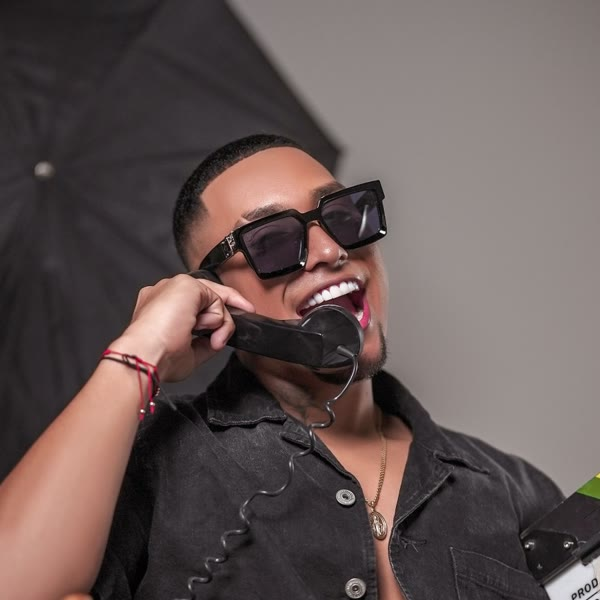
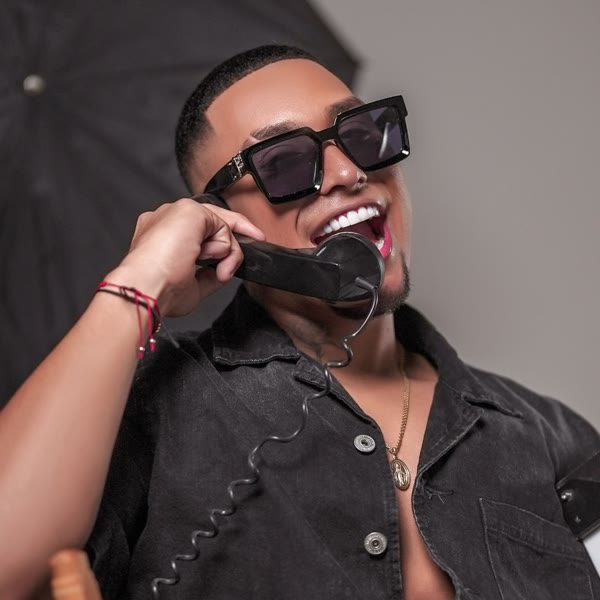
Ecualizador en reproductor, foto de reservas, tarjetas compactas en celular

diff --git a/index.html b/index.html
@@ -150,7 +150,7 @@ section{padding:110px 0}
 @media(max-width:560px){.fly{flex-basis:62vw}.ev.hasf{grid-template-columns:54px 64px 1fr}.ev.hasf .eva{grid-column:1/-1;justify-content:stretch}.ev.hasf .eva .btn{flex:1;justify-content:center}}
 /* entrada */
 .gate{position:fixed;inset:0;z-index:200;display:flex;flex-direction:column;align-items:center;justify-content:center;text-align:center;padding:24px;background:radial-gradient(ellipse at center,rgba(60,0,0,.85),rgba(0,0,0,.97) 70%),url(img/hero.jpg) center/cover;transition:opacity .6s}
-@media(max-width:700px){.book>.rv{position:relative}.bkph{position:absolute;top:30px;right:0;margin:0!important}.bkph img{width:108px!important;height:108px!important}.book .title{padding-right:118px}}
+@media(max-width:700px){.book>.rv{position:relative}.bkph{position:absolute;top:30px;right:0;margin:0!important}.bkph img{width:108px!important;height:108px!important}.book .title{padding-right:118px;min-height:116px}}
 .gate.out{opacity:0;pointer-events:none}
 .gate h2{font:900 clamp(44px,10vw,110px) 'Poppins';text-transform:uppercase;line-height:.9;margin:14px 0 10px}
 .gate p{color:#ddd;max-width:420px;line-height:1.6}
@@ -222,6 +222,13 @@ footer .wrap{display:flex;justify-content:space-between;flex-wrap:wrap;gap:12px}
 .vid .yt-fb{position:absolute;inset:0;z-index:2;display:flex;flex-direction:column;align-items:center;justify-content:flex-end;padding:18px;gap:10px;background:linear-gradient(0deg,rgba(0,0,0,.85),transparent 70%);font:600 13px 'Poppins';text-align:center}
 .vid.blk::after{display:none}
 @media(max-width:560px){.snd{padding:8px 12px;font-size:11px}.player .t{display:none}}
+.eq{display:inline-flex;align-items:flex-end;gap:2px;height:14px;margin-right:8px;vertical-align:-1px}
+.eq i{width:3px;height:3px;background:var(--mg);border-radius:1px}
+.player.on .eq i{animation:eq .9s ease-in-out infinite alternate}
+.eq i:nth-child(2){animation-delay:-.3s!important}.eq i:nth-child(3){animation-delay:-.6s!important}.eq i:nth-child(4){animation-delay:-.15s!important}
+@keyframes eq{0%{height:3px}50%{height:14px}100%{height:6px}}
+.player .lv{color:var(--mg);font-weight:700;margin-right:4px;display:none}.player.on .lv{display:inline}
+@media(max-width:560px){.player{gap:10px;padding:0 12px}.player .cov{width:64px;height:40px}.player .t{display:block!important}.player .t b{font-size:12px}.player .t small{font-size:10px}}
 .player .t{flex:1;min-width:0}
 .player .t b{display:block;font:600 14px 'Poppins';white-space:nowrap;overflow:hidden;text-overflow:ellipsis}
 .player .t small{color:var(--mute);font-size:12px}
@@ -252,7 +259,7 @@ footer .wrap{display:flex;justify-content:space-between;flex-wrap:wrap;gap:12px}
   section{padding:80px 0}
 }
 @media(max-width:560px){
-  .cards{grid-template-columns:1fr}
+  .cards{grid-template-columns:1fr 1fr;gap:10px;margin-top:28px}.card{padding:18px 14px}.card .ic{font-size:24px}.card h4{font-size:15px;margin:10px 0 6px}.card p{font-size:12.5px;line-height:1.5}.card a{margin-top:12px;font-size:10.5px}
   .ev{grid-template-columns:64px 1fr;padding:18px}
   .ev .btn{grid-column:1/-1;justify-content:center}
   .row{grid-template-columns:1fr}
@@ -466,7 +473,7 @@ footer .wrap{display:flex;justify-content:space-between;flex-wrap:wrap;gap:12px}
 <div class="player" id="player">
   <div class="bar"><i id="prog"></i></div>
   <div class="cov"><div id="ytp"></div></div>
-  <div class="t"><b id="tt">Show en vivo</b><small>DJ Cristian Aguirre</small></div>
+  <div class="t"><b><span class="eq"><i></i><i></i><i></i><i></i></span><span id="tt">Show en vivo</span></b><small><span class="lv">● En vivo</span> DJ Cristian Aguirre</small></div>
   <button class="snd" id="snd" hidden>🔊 Activar sonido</button>
   <button class="pb" id="prev" aria-label="Anterior">⏮</button>
   <button class="pb main" id="play" aria-label="Reproducir">▶</button>
@@ -573,7 +580,7 @@ window.onYouTubeIframeAPIReady=()=>{
    // intentamos sonar directo; si el navegador lo bloquea, arranca en silencio y suena al primer toque
    if(wantSound){unlock();return}
    bar.mute();bar.playVideo()},
-  onStateChange:e=>{pbtn.textContent=e.data===1?'❚❚':'▶';if(e.data===0)go(ti+1)},
+  onStateChange:e=>{pbtn.textContent=e.data===1?'❚❚':'▶';document.getElementById('player').classList.toggle('on',e.data===1);if(e.data===0)go(ti+1)},
   onError:()=>{markBlocked(TRACKS[ti].id);go(ti+1)}}});
  setInterval(()=>{if(ready&&bar.getDuration)document.getElementById('prog').style.width=(bar.getCurrentTime()/bar.getDuration()*100||0)+'%'},500)};
 
